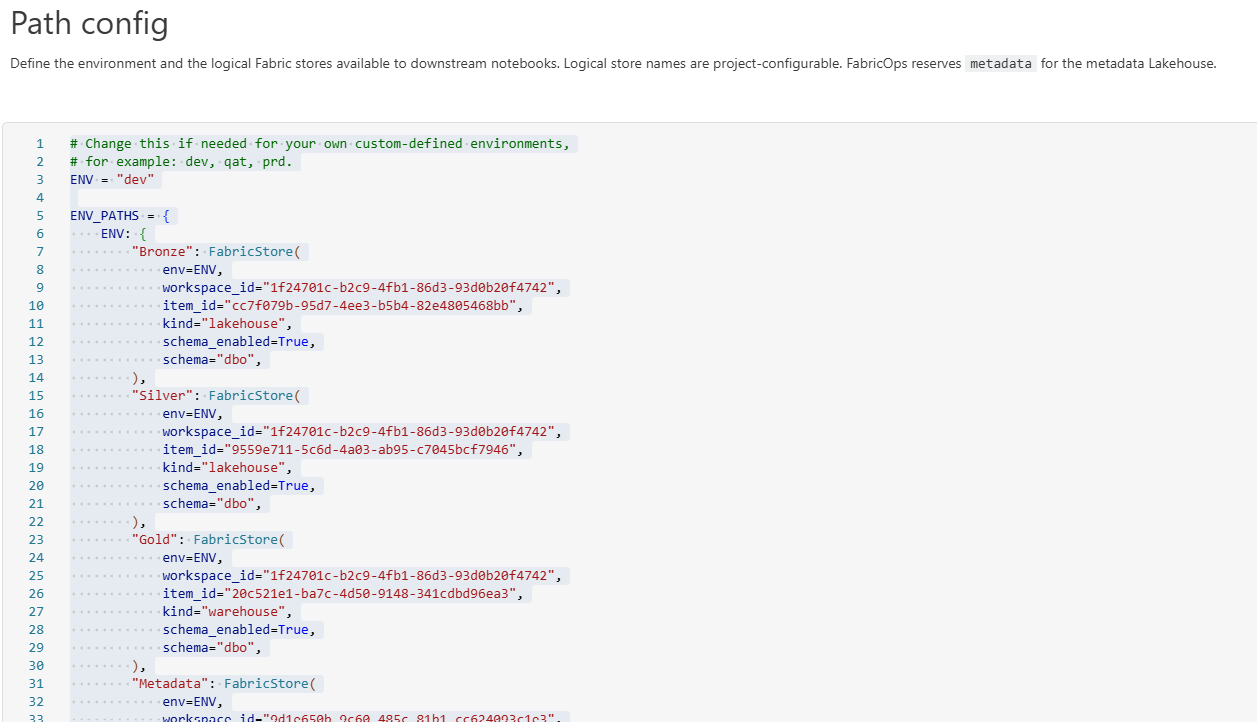
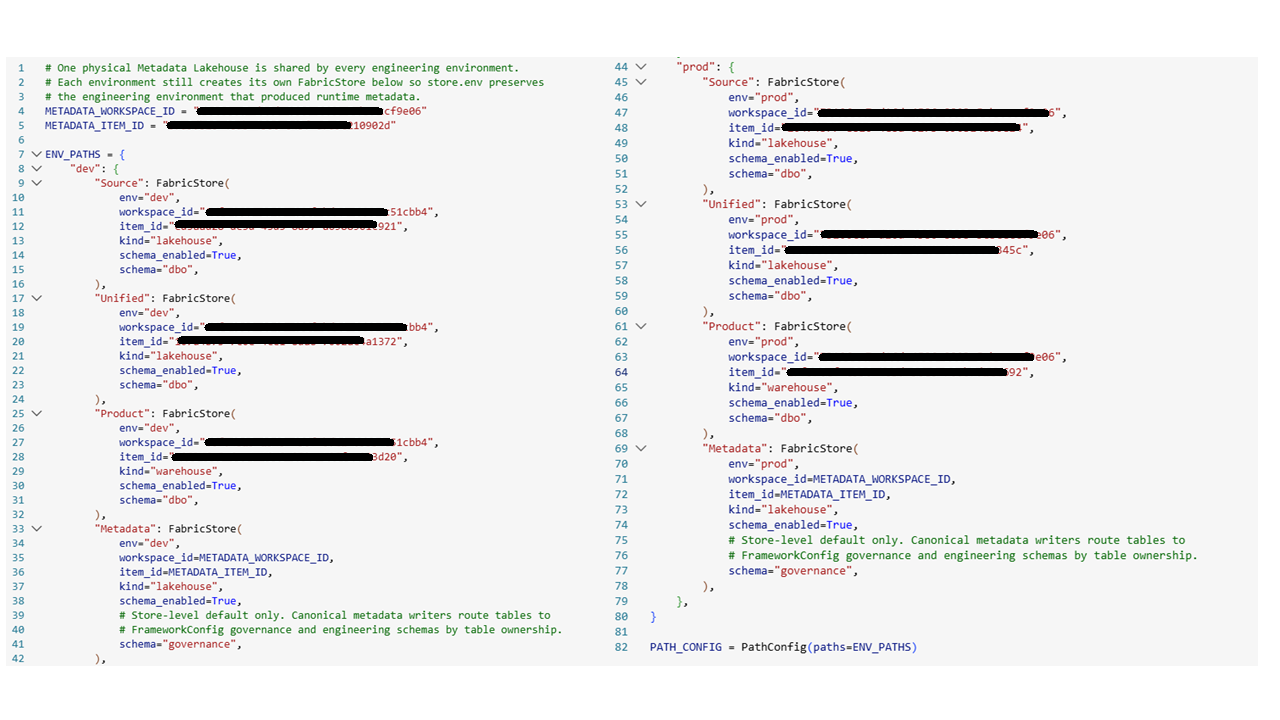
Updated

diff --git a/docs/guided-demo/00B-run-environment-setup.md b/docs/guided-demo/00B-run-environment-setup.md
@@ -78,12 +78,12 @@ Use the current walkthrough store keys exactly as they appear in `00_env_config`
 
 | `FabricStore` key | Open this Fabric item | `kind` |
 | --- | --- | --- |
-| `metadata` | Governance → `metadata` | `lakehouse` |
-| `bronze` | Engineering Development → `bronze` | `lakehouse` |
-| `silver` | Engineering Development → `silver` | `lakehouse` |
-| `gold` | Engineering Development → `gold` | `warehouse` |
+| `Metadata` | Governance → `Metadata` | `lakehouse` |
+| `Bronze` | Engineering Development → `Bronze` | `lakehouse` |
+| `Silver` | Engineering Development → `Silver` | `lakehouse` |
+| `Gold` | Engineering Development → `Gold` | `warehouse` |
 
-The `workspace_id` is the same for `bronze`, `silver`, and `gold` because they are in the same Engineering Development workspace. The `metadata` Lakehouse uses the Governance workspace ID.
+You can rename the objects to whatever make sense, also for each environment you have in engineering you should have a corrosponding group of paths.
 
 ![Path config](../assets/00B/00_config_paths.png)
 
